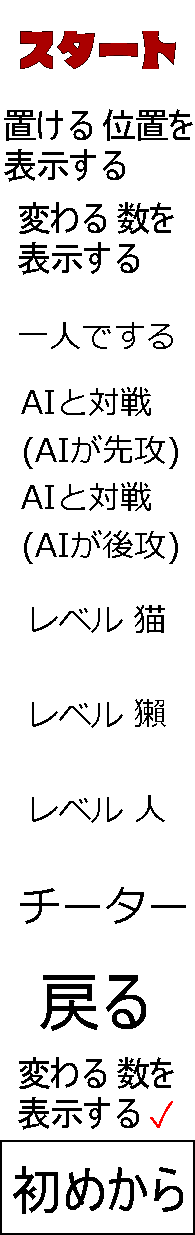
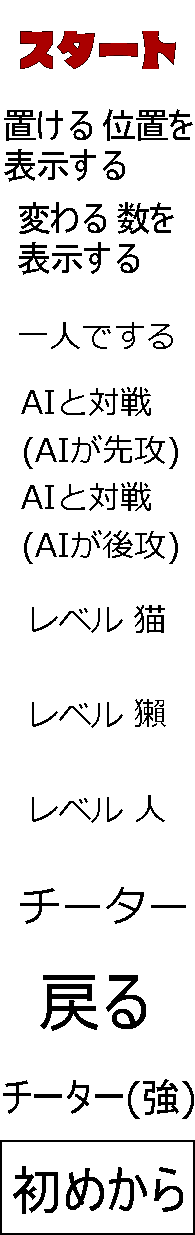
a

Changed region(s): [[0.0308, 0.8308, 0.9231, 0.9231], [0.9538, 0.8615, 1.0, 0.9231]]

diff --git a/js/main.js b/js/main.js
@@ -58,8 +58,8 @@ function Load(width,height){
 
       var Set_button3 = new Sprite(195,95);
       Set_button3.image = core.assets["image/Set_button.png"];
-      Set_button3.x = 105;
-      Set_button3.y = 345;
+      Set_button3.x = 205;
+      Set_button3.y = 145;
       Set_button3.frame = 9;
 
       var Set_button4 = new Sprite(195,95);
@@ -71,6 +71,12 @@ function Load(width,height){
       Set_button4.addEventListener('touchstart',function(e){
         core.pushScene(ReturnScene());
       });
+
+      var Set_button5 = new Sprite(195,95);
+      Set_button5.image = core.assets["image/Set_button.png"];
+      Set_button5.x = 105;
+      Set_button5.y = 245;
+      Set_button5.frame = 11;
 
       var Stone = Class.create(Sprite, {
         initialize: function(x,y,z) {
@@ -172,6 +178,17 @@ function Load(width,height){
         [  0, -3,  0, -1, -1,  0, -3,  0],
         [-12,-15, -3, -3, -3, -3,-15,-12],
         [ 30,-12,  0, -1, -1,  0,-12, 30]
+      ];
+
+      var Cheetah = [
+        [ 0,10,-5, 2, 2,-5,10, 0],
+        [10,-5, 1, 1, 1, 0,-5,10],
+        [-5, 1, 1, 1, 1, 1, 1,-5],
+        [ 2, 1, 1, 1, 1, 1, 1, 2],
+        [ 2, 1, 1, 1, 1, 1, 1, 2],
+        [-5, 1, 1, 1, 1, 1, 1,-5],
+        [10,-5, 1, 1, 1, 1,-5,10],
+        [ 0,10,-5, 2, 2,-5,10, 0]
       ];
 
       for (var x = 0; x < 8; x++) {
@@ -277,6 +294,7 @@ function Load(width,height){
         scene.removeChild(Set_button1);
         scene.removeChild(Set_button2);
         scene.removeChild(Set_button3);
+        scene.removeChild(Set_button5);
         scene.addChild(label1);
         scene.addChild(label2);
         scene.addChild(label3);
@@ -701,12 +719,14 @@ function Load(width,height){
             Set_button.frame  = 7;
             Set_button1.frame = 6;
             Set_button2.frame = 8;
-            Set_button.y = 145;
-            Set_button1.x = 105;
+            Set_button.x = 205;
+            Set_button.y = 45;
+            Set_button1.x = 5;
             Set_button1.y = 45;
-            Set_button2.x = 105;
-            Set_button2.y = 245;
+            Set_button2.x = 5;
+            Set_button2.y = 145;
             scene.addChild(Set_button3);
+            scene.addChild(Set_button5);
           }
           else if(bamen==2&&Time>0){
             hyouzisuru();
@@ -730,12 +750,14 @@ function Load(width,height){
             Set_button.frame  = 7;
             Set_button1.frame = 6;
             Set_button2.frame = 8;
-            Set_button.y = 145;
-            Set_button1.x = 105;
+            Set_button.x = 205;
+            Set_button.y = 45;
+            Set_button1.x = 5;
             Set_button1.y = 45;
-            Set_button2.x = 105;
-            Set_button2.y = 245;
+            Set_button2.x = 5;
+            Set_button2.y = 145;
             scene.addChild(Set_button3);
+            scene.addChild(Set_button5);
           }
           else if(bamen==2&&Time>0){
             hyouzisuru();
@@ -761,6 +783,23 @@ function Load(width,height){
           for (var x = 0; x < 8; x++) {
             for (var y = 0; y < 8; y++) {
               priority[y][x] = priority_otter[y][x];
+            }
+          }
+        }
+        if(Set_button5.intersect(Pointer)&&bamen==2&&Time>0){
+          hyouzisuru();
+          Stones[0][0].ura = AI;
+          Stones[0][0].frame = AI;
+          Stones[0][7].ura = AI;
+          Stones[0][7].frame = AI;
+          Stones[7][0].ura = AI;
+          Stones[7][0].frame = AI;
+          Stones[7][7].ura = AI;
+          Stones[7][7].frame = AI;
+          Hand.frame = 6;
+          for (var x = 0; x < 8; x++) {
+            for (var y = 0; y < 8; y++) {
+              priority[y][x] = Cheetah[y][x];
             }
           }
         }
